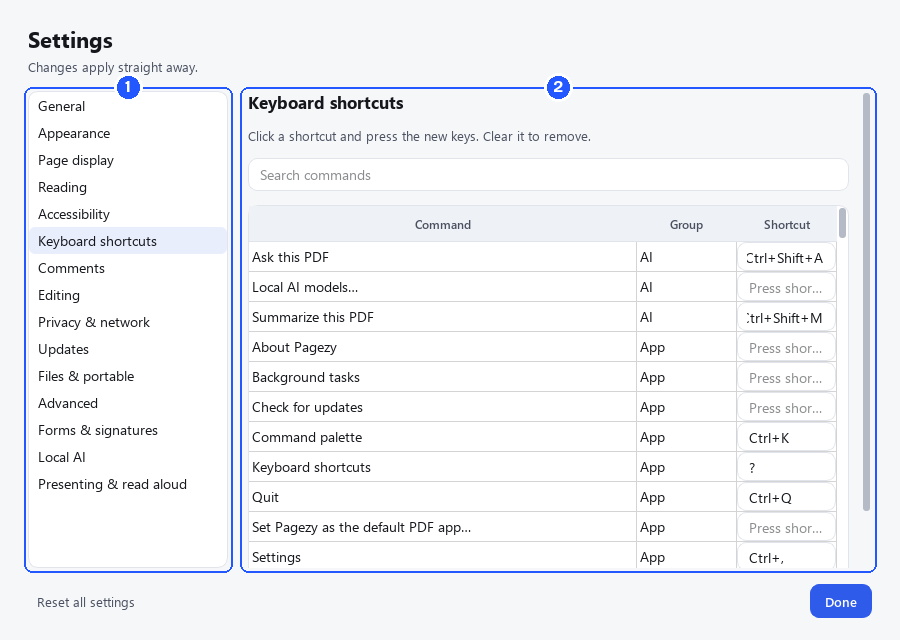
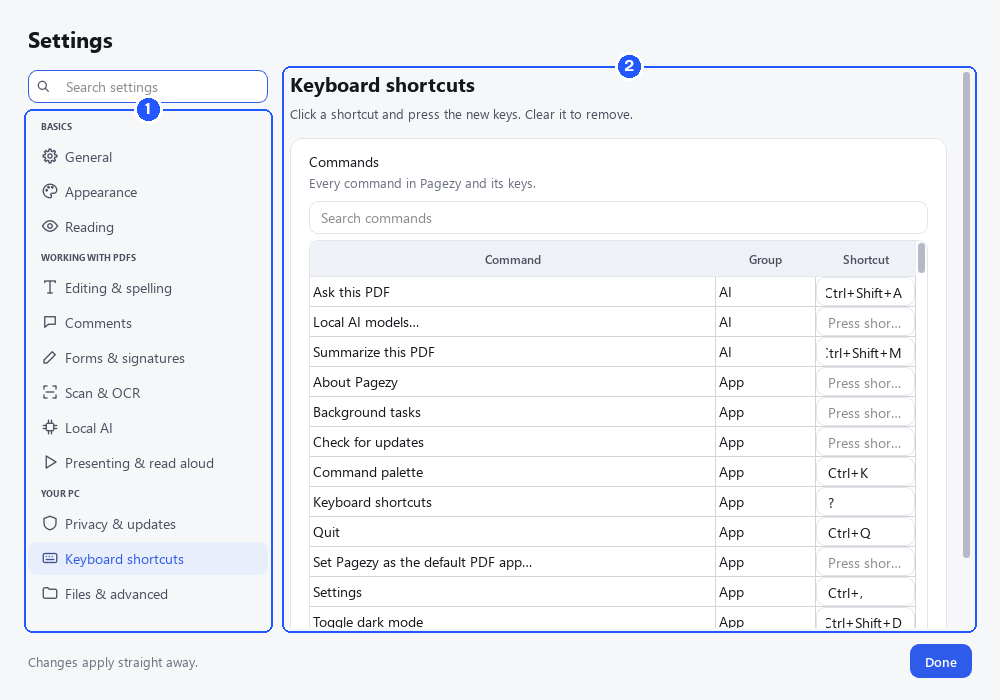
Update the Pagezy page, screenshots and user guide

Changed region(s): [[0.0, 0.0312, 0.9956, 0.9688], [0.0311, 0.9375, 0.1867, 0.9688], [0.4667, 0.3438, 0.5289, 0.4062]]

diff --git a/guide/pagezy-guide.md b/guide/pagezy-guide.md
@@ -316,7 +316,7 @@ Choose how pages sit on screen:
 
 The menu ends with **Reflow text** ([below](#reflow-text)).
 
-Each file remembers its own zoom and layout. To change what new files open with, see Settings › **Page display** ([section 51](#51-settings)).
+Each file remembers its own zoom and layout. To change what new files open with, see Settings › **Reading** ([section 51](#51-settings)).
 
 ### Reflow text
 
@@ -735,7 +735,7 @@ The look you choose applies to the whole block.
 
 - **Native:** your letters are drawn with the file's own font, so the edit is invisible.
 - **Substitute:** if the file's font lacks a letter you typed, a matching font from your PC draws it.
-- **Cover & replace:** for the rare text that can't be removed safely, Pagezy hides the old text under a box in the paper's colour and draws yours on top. The old text is still in the file; to remove it for good, redact it ([section 32](#32-redact)). You can turn this off in Settings › **Editing**.
+- **Cover & replace:** for the rare text that can't be removed safely, Pagezy hides the old text under a box in the paper's colour and draws yours on top. The old text is still in the file; to remove it for good, redact it ([section 32](#32-redact)). You can turn this off in Settings › **Editing & spelling**.
 
 After you save an edit, the panel says which of the three was used.
 
@@ -1745,7 +1745,7 @@ Settings › **Local AI** › **Manage models…** (also **Local AI models…** 
 
 - **Best for this PC** marks the model that suits your computer's memory and processor. Each model says whether it fits this PC.
 - Click **Download…**. Pagezy shows the size, where the files come from (Hugging Face), the licence and what is sent: only the download requests, never your documents. Click **Download** to start.
-- The download runs in the background. **Stop** pauses it, and it carries on where it left off next time. Pagezy checks every file before using it, and each download is listed in the network log (Settings › **Privacy & network**).
+- The download runs in the background. **Stop** pauses it, and it carries on where it left off next time. Pagezy checks every file before using it, and each download is listed in the network log (Settings › **Privacy & updates**).
 - With more than one model, click **Use** on the one Ask and Summarize should use. **In use** shows which one that is. **Delete** removes a model from your PC.
 
 For a PC without internet, download the model's files on another computer from the links Pagezy shows, put them in one folder, copy it over and click **Import model folder…**. Pagezy only imports the models in its list, after checking every file.
@@ -1860,34 +1860,32 @@ For people who know Python: **Python console (advanced)** (Ctrl+Alt+J) runs Pyth
 
 Open **Settings** with the gear button or **Ctrl+,**. Changes apply straight away.
 
-![Settings, Appearance section: theme, text size, night pages and sharp text](images/app-settings.png)
+![Settings, Appearance page: theme, text size, night pages and sharp text on cards with switches](images/app-settings.png)
 
-1. The sections.
-2. The settings of the chosen section.
-3. **Reset all settings** puts everything back to how it was at the first start. Your files and recent list aren't touched.
-4. **Done**.
+1. **Search settings**: type a word, such as "zoom", and Pagezy shows only the pages and options that mention it.
+2. The pages, in three groups: **Basics**, **Working with PDFs** and **Your PC**.
+3. The options of the chosen page, on cards. Each one says what it does. Switches turn an option on or off; − and + change a number.
+4. **Reset this page** puts the options on this page back to how they were at the first start.
+5. **Done**.
 
-| Section | What you can set |
+| Page | What you can set |
 |---|---|
-| **General** | **Keep the original as name.orig.pdf** when you save an edited file · **Reopen the files I had open** · how often a **Recovery copy** is saved · how many **Recent files** to remember |
-| **Appearance** | **Theme** (Light or Dark) · **Text size** of Pagezy itself · **Night pages** · **Sharp text**: smoother text on ordinary screens, and **Darker, crisper letters** for small text that looks thin or grey |
-| **Page display** | The **Default zoom** (**Automatic**, Fit width, Fit page or Actual size) and **Page layout** for files you open for the first time |
-| **Reading** | **Vim-style keys** (j and k to scroll, g and G for the first and last page) · **Ask before opening web links** · **Protected view** for files downloaded from the internet, for every file, or never |
-| **Accessibility** | **Interface text size** |
-| **Keyboard shortcuts** | Change any shortcut ([section 52](#52-keyboard-shortcuts)) |
-| **Comments** | Your **Author name** |
-| **Editing** | **Check spelling** as you type, the spelling **Language**, and the **Words you added** to your dictionary · **Allow cover & replace when old text can't be removed safely** ([section 15](#15-edit-text-and-pictures)) |
-| **Privacy & network** | **Check for new versions once a day** · the **Network log**: every connection Pagezy has made |
-| **Updates** | **Check for new versions** · **Also offer pre-release versions** · **Check now** |
-| **Files & portable** | Where Pagezy keeps its data · portable mode · **Set Pagezy as the default PDF app…** |
-| **Advanced** | Where the log file is (useful when reporting a problem) |
-| **Forms & signatures** | **Open forms in Fill mode** · **Highlight form fields** · keep XFA data in step · **Check signatures when a document opens** · the Fill & Sign date format · a **Timestamp server** · **Trust certificates Windows trusts** (Windows) · **Trust lists and certificates…** |
+| **General** | **Reopen the files I had open** · **Keep the original as name.orig.pdf** when you save an edited file · how often a **recovery copy** is saved · how many **Recent files** to remember |
+| **Appearance** | **Theme** (Light or Dark) · **Text size** of Pagezy itself · **Night pages** · **Smooth text for LCD screens** · **Darker, crisper letters** for small text that looks thin or grey |
+| **Reading** | The **Zoom** (**Automatic**, Fit width, Fit page or Actual size) and **Page layout** that files open with the first time · **Vim-style keys** (j and k to scroll, g and G for the first and last page) · **Ask before opening web links** · **Protected view** (off, files from the internet, or every file) |
+| **Editing & spelling** | **Underline misspelled words as I type**, the spelling **Language**, and the **Words you added** to your dictionary · **Allow cover & replace** ([section 15](#15-edit-text-and-pictures)) |
+| **Comments** | Your **Author name** · the **Highlight colour** the Highlight tool starts with |
+| **Forms & signatures** | **Open forms in Fill mode** · **Highlight form fields** · keep XFA data in step · the Fill & sign date format · **Check signatures when a file opens** · a **Timestamp server** · **Trust certificates Windows trusts** (Windows) · **Trust lists and certificates** |
+| **Scan & OCR** | The recognition **Engine** · **Languages** · **Straighten and turn pages upright first** · **Clean the background first** · **Flag words below** a confidence you choose |
 | **Local AI** | **AI features** (Ask this PDF and Summarize) on or off · which AI model is in use · **Manage models…** ([section 46](#local-ai-models)) |
-| **Presenting & read aloud** | **Advance pages every** · **Loop** · use the timings saved in the file · **Read aloud speed** · **Auto-scroll speed** |
+| **Presenting & read aloud** | **Advance pages every** · **Start again after the last page** · use the timings saved in the file · **Read aloud speed** · **Auto-scroll speed** |
+| **Privacy & updates** | **Check for a new version once a day** · **Include test versions** · **Check now** · the **Network log**: every connection Pagezy has made |
+| **Keyboard shortcuts** | Change any shortcut ([section 52](#52-keyboard-shortcuts)) |
+| **Files & advanced** | Where Pagezy keeps its data · portable mode · **Set as default…** PDF app · where the log file is (useful when reporting a problem) · **Reset all settings** (your files, recent list and signatures are kept) |
 
-**Spelling.** When you type a comment, a reply, a form field, Fill & sign text or text in Edit mode, Pagezy underlines words it doesn't know with a wavy red line. Right-click an underlined word to pick one of the suggestions, choose **Add to dictionary** (Pagezy remembers the word from then on), or **Ignore** (until you close Pagezy). On Windows, Pagezy uses the spell checker built into Windows, so every language you have added in Windows Settings › Time & language › Language & region can be chosen; English (United States) and English (United Kingdom) are always there. To turn checking off, change the language or remove a word you added, open Settings › **Editing**.
+**Spelling.** When you type a comment, a reply, a form field, Fill & sign text or text in Edit mode, Pagezy underlines words it doesn't know with a wavy red line. Right-click an underlined word to pick one of the suggestions, choose **Add to dictionary** (Pagezy remembers the word from then on), or **Ignore** (until you close Pagezy). On Windows, Pagezy uses the spell checker built into Windows, so every language you have added in Windows Settings › Time & language › Language & region can be chosen; English (United States) and English (United Kingdom) are always there. To turn checking off, change the language or remove a word you added, open Settings › **Editing & spelling**.
 
-**Make Pagezy your default PDF app.** Click **Set Pagezy as the default PDF app…** (in Settings › Files & portable, or from the command palette). On Windows, click **Open Windows Settings**, click **.pdf** and choose **Pagezy**. Then come back: Pagezy checks that it worked and says "Done. Pagezy opens PDF files." The portable version can't be made the default app.
+**Make Pagezy your default PDF app.** Click **Set as default…** in Settings › **Files & advanced** (or **Set Pagezy as the default PDF app…** in the command palette). On Windows, click **Open Windows Settings**, click **.pdf** and choose **Pagezy**. Then come back: Pagezy checks that it worked and says "Done. Pagezy opens PDF files." The portable version can't be made the default app.
 
 ## 52. Keyboard shortcuts
 
@@ -1969,7 +1967,7 @@ Comment, Sign, Scan & OCR and the Organize page grid also have single-letter key
 
 ## 53. Updates
 
-Once a day, Pagezy checks whether a new version is out. That is its only automatic connection, and you can turn it off in Settings › **Updates**. Nothing is shown unless there's a new version. When there is:
+Once a day, Pagezy checks whether a new version is out. That is its only automatic connection, and you can turn it off in Settings › **Privacy & updates**. Nothing is shown unless there's a new version. When there is:
 
 ![The top bar showing an update ready next to the background tasks button](images/app-update-notice.png)
 
